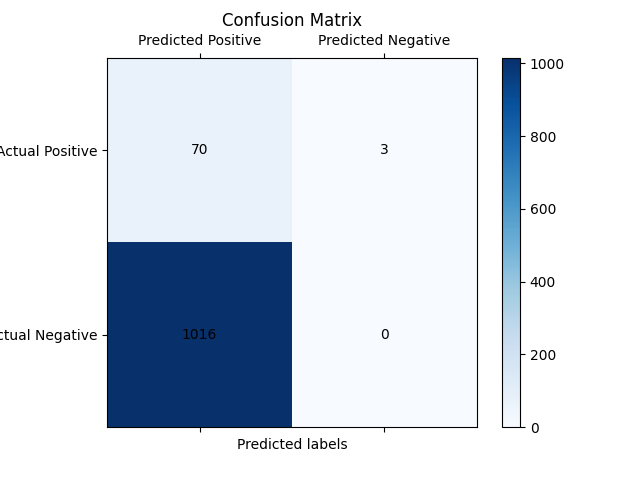
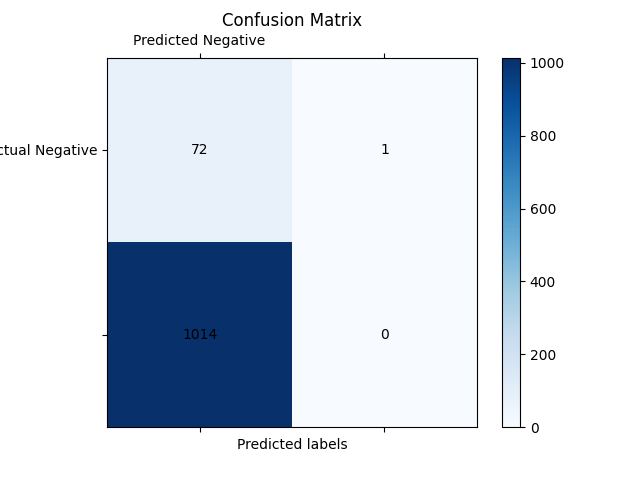
fixed confusion matrix and ultimated the precision, recall f1score

diff --git a/KG/GPT/confusion_matrix.py b/KG/GPT/confusion_matrix.py
@@ -1,11 +1,15 @@
+import os
+from concurrent.futures import ProcessPoolExecutor, as_completed
+import matplotlib.pyplot as plt
+import numpy as np
 import spacy
 from tqdm import tqdm
-from concurrent.futures import ProcessPoolExecutor, as_completed
-import numpy as np
-import matplotlib.pyplot as plt
+import warnings
 
 nlp = spacy.load("en_core_web_lg")
-threshold = 0.96
+threshold = 0.95
+
+warnings.filterwarnings("ignore", category=UserWarning, message="set_ticklabels\(\) should only be used with a fixed number of ticks")
 
 
 def nlp_similarity(task):
@@ -25,6 +29,7 @@ def nlp_similarity(task):
     return False
 
 
+
 def read_triplets_from_file(file_path):
     """
     Reads triplets from a given file path.
@@ -39,13 +44,11 @@ def read_triplets_from_file(file_path):
     return triplets
 
 
-def calculate_matrix(path):
+def calculate_matrix(path, similarity_score):
     correct_triplets = read_triplets_from_file("normalizedTriplets/_normalizedextracted_text_from_GPT.txt")
     predicted_triplets = read_triplets_from_file("normalizedTriplets/_normalized" + path)
-    title = path.split("_")[-1].split(".")[0]
 
-    print("Triplets generated:", len(predicted_triplets), "Triplets GT:", len(correct_triplets))
-
+    print("Triplets generated", len(predicted_triplets), "Triplets GT:", len(correct_triplets))
     tasks = [(triplet_p, correct_triplets) for triplet_p in predicted_triplets]
 
     true_positives = 0
@@ -58,11 +61,22 @@ def calculate_matrix(path):
     false_positives = len(predicted_triplets) - true_positives
     false_negatives = len(correct_triplets) - true_positives
 
-    draw_confusion_matrix(true_positives, false_positives, false_negatives, title)
+    draw_confusion_matrix(true_positives, false_positives, false_negatives, os.path.splitext(os.path.basename(path))[0])
     precision, recall, f1_score = calculate_evaluation_metrics(true_positives, false_positives, false_negatives)
+    print("True Positive", true_positives, "False Positive", false_positives, "False negative", false_negatives)
+    print(f"Precision: {precision:.2f}")
+    print(f"Recall: {recall:.2f}")
+    print(f"F1 Score: {f1_score:.2f}")
 
-    print("True Positive:", true_positives, "False Positive:", false_positives, "False Negative:", false_negatives)
-    print(f"Precision: {precision:.2f}\nRecall: {recall:.2f}\nF1 Score: {f1_score:.2f}")
+    file_name = "TXT_Matrix/" + os.path.splitext(os.path.basename(path))[0] + ".txt"
+    with open(file_name, 'w') as file:
+        file.write("True Positives: " + str(true_positives) + "\n")
+        file.write("False Positive: " + str(false_positives) + "\n")
+        file.write("False negative: " + str(false_negatives) + "\n")
+        file.write("Precision: " + str(precision) + "\n")
+        file.write("Recall: " + str(recall) + "\n")
+        file.write("F1 Score: " + str(f1_score) + "\n")
+        file.write("Similarity score: " + str(similarity_score) + "\n")
 
     return true_positives, false_positives, false_negatives
 
@@ -78,30 +92,22 @@ def calculate_evaluation_metrics(true_positives, false_positives, false_negative
     return precision, recall, f1_score
 
 
-def draw_confusion_matrix(true_positives, false_positives, false_negatives, title):
+def draw_confusion_matrix(true_positives, false_positives, false_negatives, name):
     """
     Draws a confusion matrix using Matplotlib.
     """
-    # Calculate true negatives (assuming it's not directly relevant and set to 0 for visualization)
     true_negatives = 0
-
-    # Create a confusion matrix
     confusion_matrix = np.array([[true_positives, false_positives],
                                  [false_negatives, true_negatives]])
-
     fig, ax = plt.subplots()
     cax = ax.matshow(confusion_matrix, cmap=plt.cm.Blues)
-    plt.title('Confusion Matrix for ' + title)
+    plt.title('Confusion Matrix')
     fig.colorbar(cax)
-
-    # Set axis labels
-    ax.set_xticklabels([''] + ['Predicted Positive', 'Predicted Negative'])
-    ax.set_yticklabels([''] + ['Actual Positive', 'Actual Negative'])
-
-    # Display the numbers in the cells
+    ax.set_xticklabels(['Predicted Positive', 'Predicted Negative'])
+    ax.set_yticklabels(['Actual Positive', 'Actual Negative'])
     for (i, j), val in np.ndenumerate(confusion_matrix):
         ax.text(j, i, f'{val}', ha='center', va='center')
-
     plt.xlabel('Predicted labels')
     plt.ylabel('True labels')
-    plt.show()
+    # plt.show()
+    plt.savefig("TXT_Matrix/" + name + ".png")

diff --git a/KG/GPT/KG.py b/KG/GPT/KG.py
@@ -110,7 +110,7 @@ def KG_creation(filename):
 
 def visualize_with_pyvis(g, output_file, filename_without_extension):
     """Convert networkx graph to a pyvis network graph and visualize it."""
-    nt = Network("1200px", "1600px", notebook=True)  # if problem with this line try change notebook = false
+    nt = Network("1200px", "1600px", notebook=False)  # if problem with this line try change notebook = false
     # networkx graph to pyvis network conversion
     nt.from_nx(g)
     nt.save_graph('plots/knowledge_graph_' + filename_without_extension + '.html')

diff --git a/KG/GPT/main.py b/KG/GPT/main.py
@@ -28,7 +28,7 @@ for file in filename[1:]:
     current_embeddings = gs.generate_embeddings(g)
     similarity_score = gs.compare_embeddings(gpt_embeddings, current_embeddings)
     cosine_sim.append(similarity_score)
-    cm.calculate_matrix(file)
+    cm.calculate_matrix(file, similarity_score)
 
 similarity_percentages = [score * 100 for score in cosine_sim]
 

diff --git a/KG/colab/falcon.py b/KG/colab/falcon.py
@@ -12,7 +12,7 @@ def ai_response(prompt):
         prompt,
         min_new_tokens=2,
         max_new_tokens=1024,
-        do_sample=False,
+        do_sample=True,
         num_beams=1,
         temperature=float(0.3),
         repetition_penalty=float(1.2),
